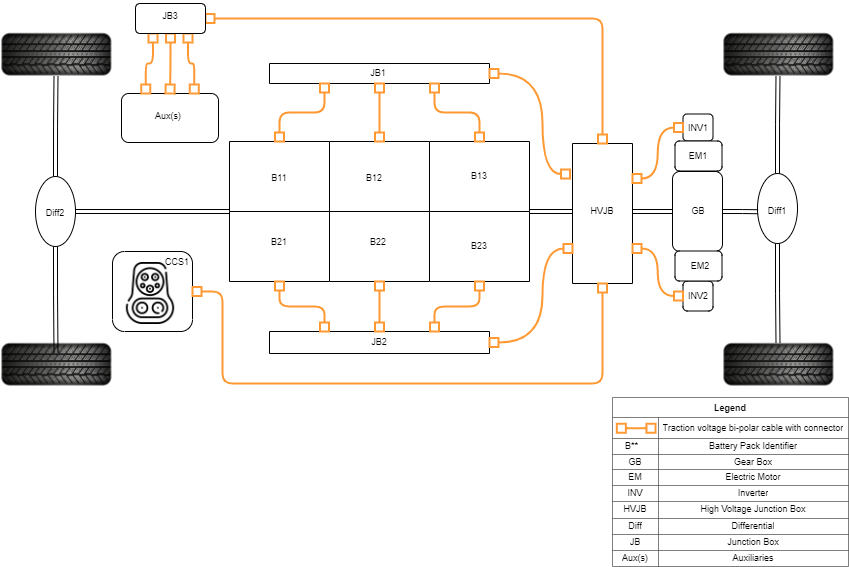
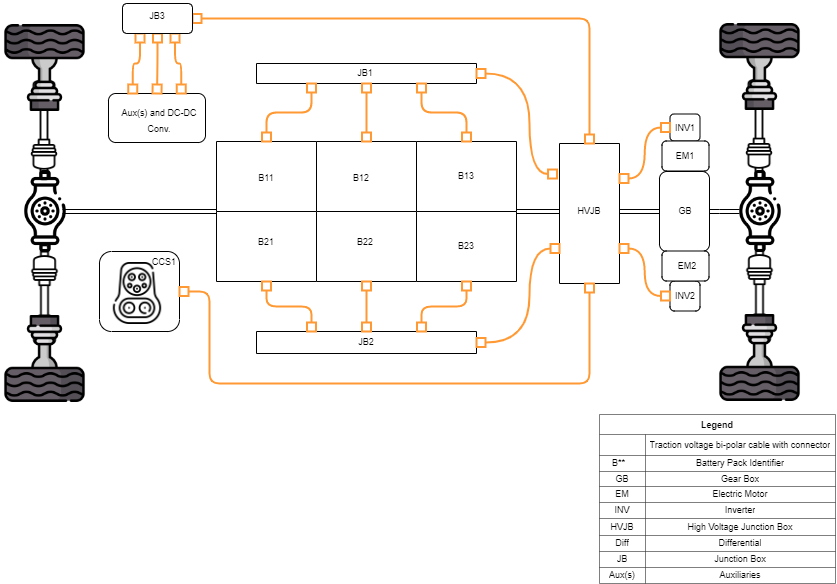
updated

diff --git a/_posts/2022-10-29-The-making-of-electric-vehicles.md b/_posts/2022-10-29-The-making-of-electric-vehicles.md
@@ -23,5 +23,8 @@ Electrics Vehicles especially cars are becoming common in recent times. Inspired
 
 ![An example of a TVS Topology](\assets\img\ElectricVehSteps\TVS_Arch.png)
 
+**Low Voltage System**
+
+![An example of a LV Topology](\assets\img\ElectricVehSteps\LV_Arch.png)
 
 ![An electric battery pack on display at ACTExpo 2022](\assets\img\ElectricVehSteps\ev_batt.jpg)
